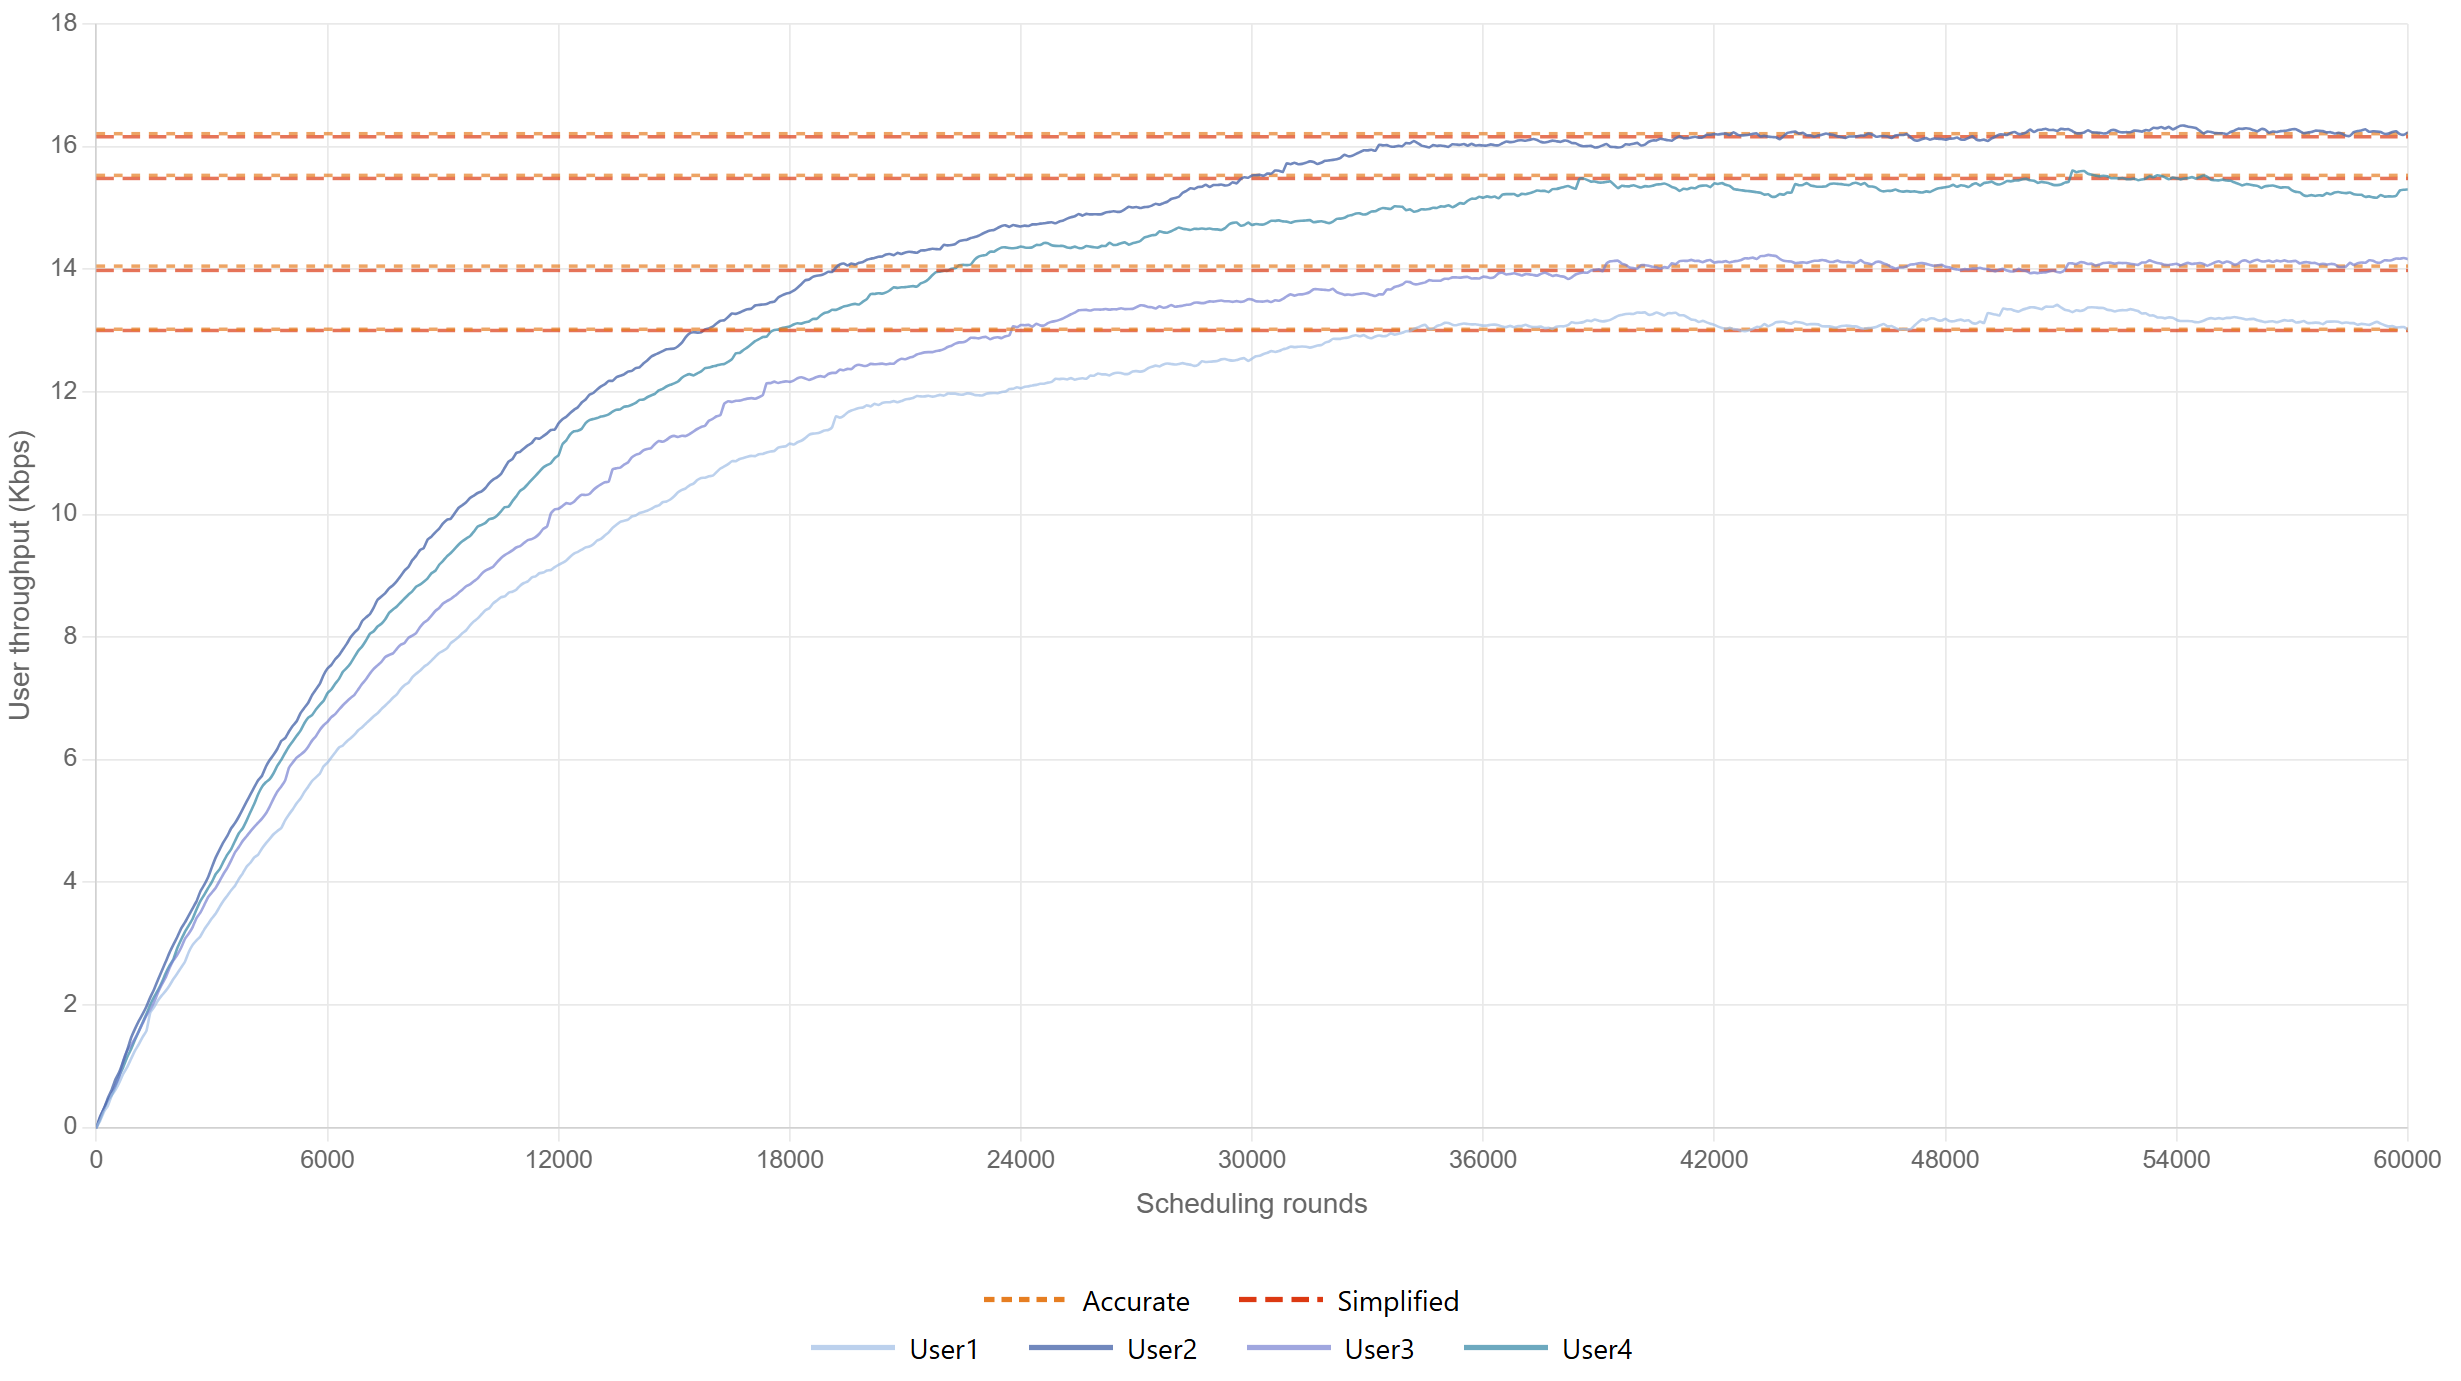
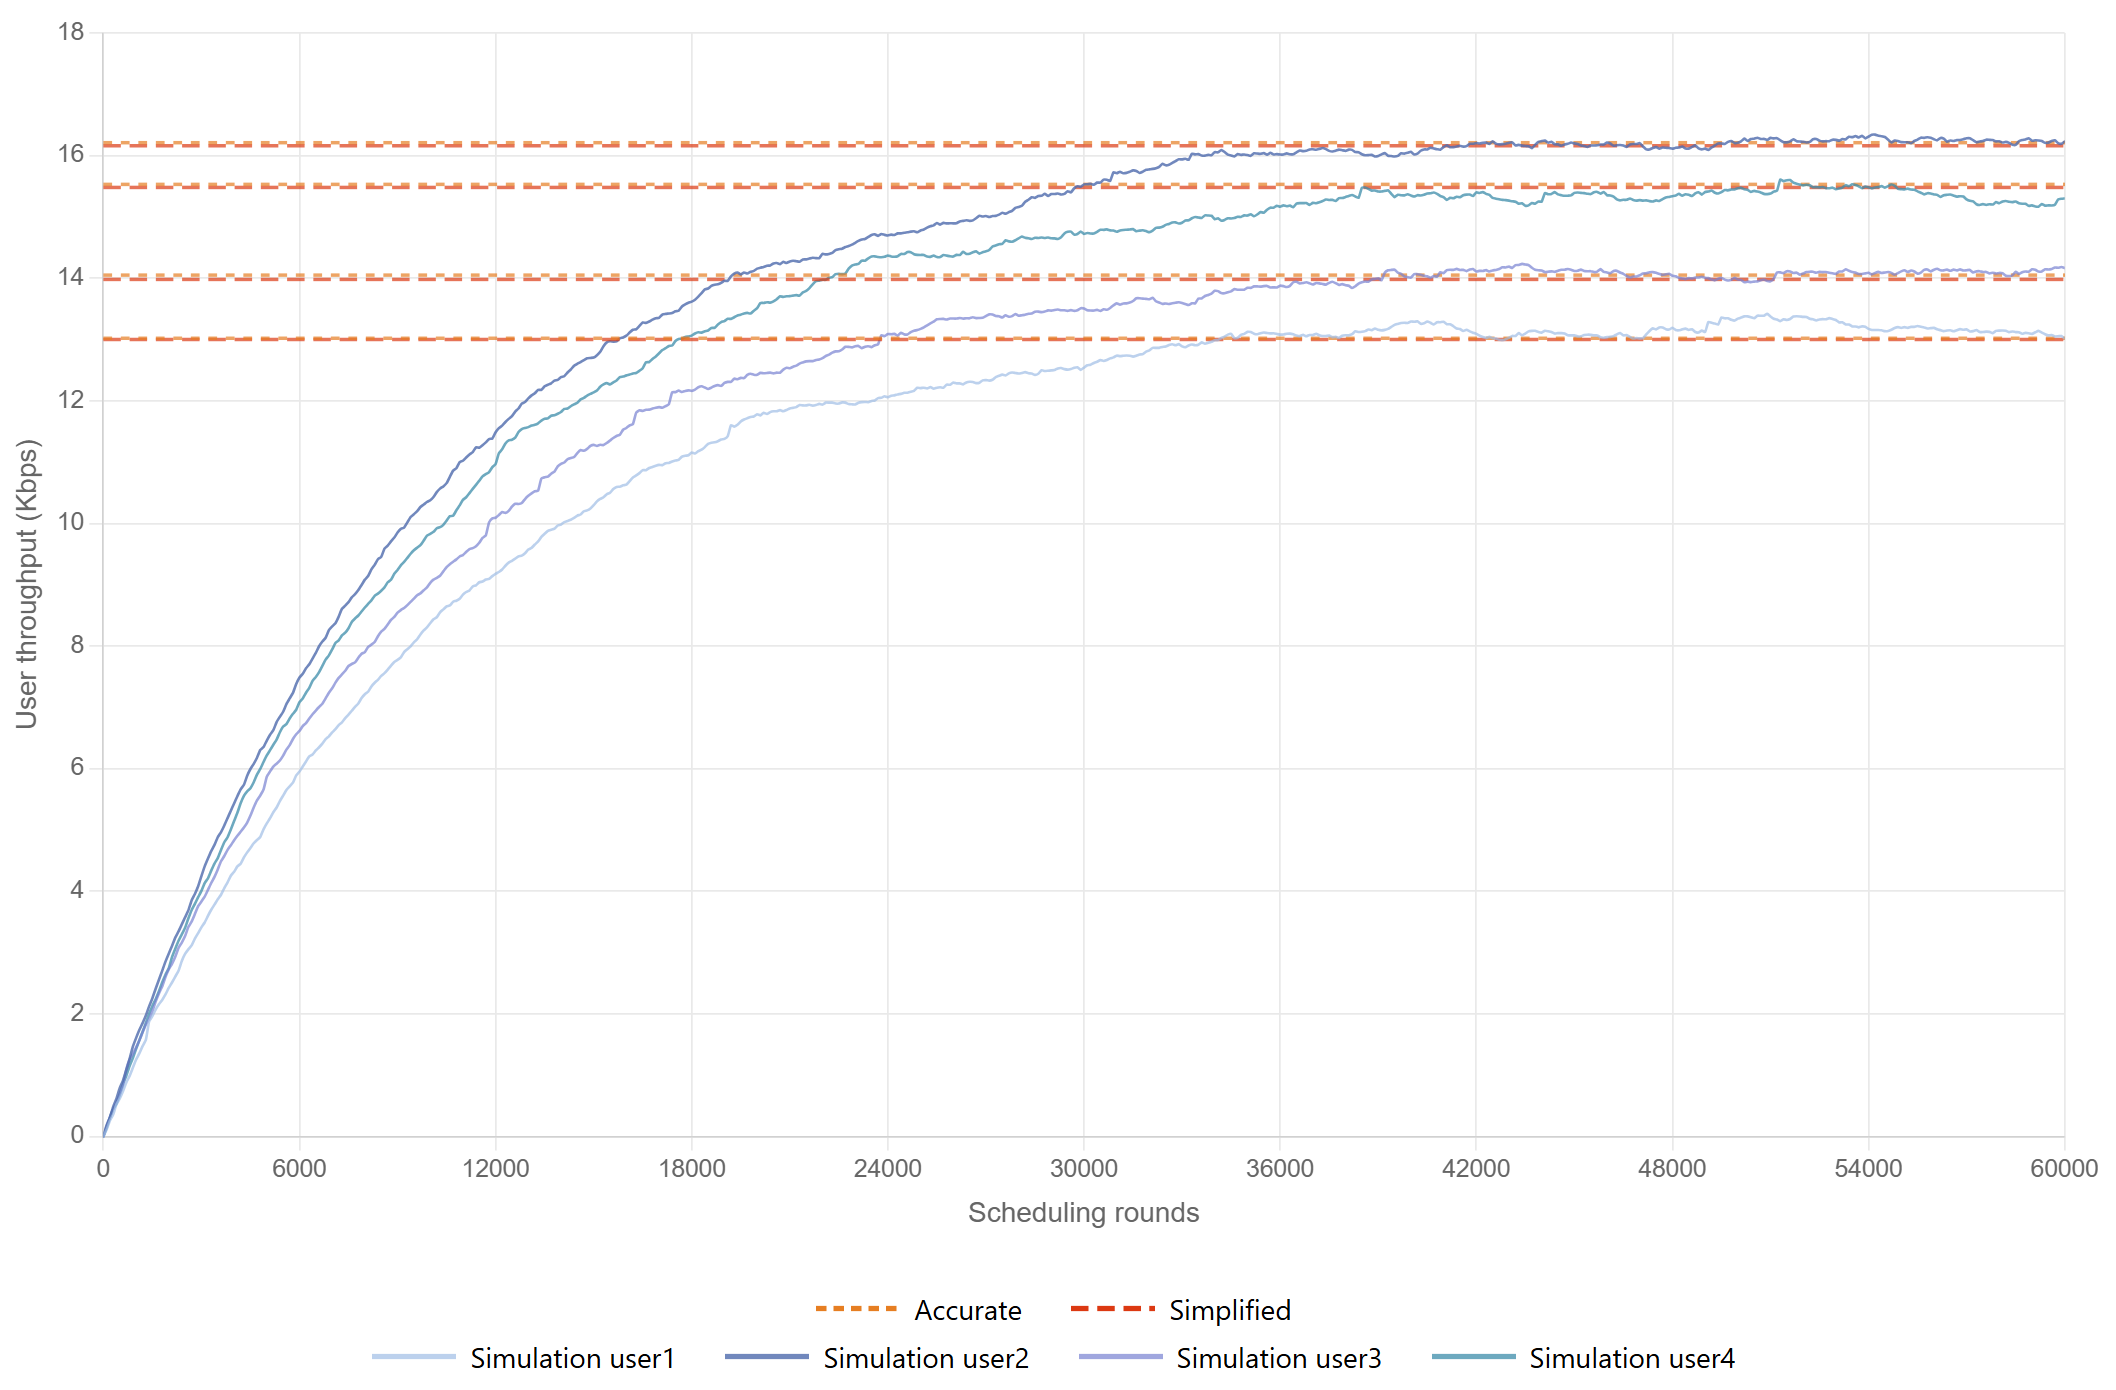
initial commit

diff --git a/reports/throughput_viewer.html b/reports/throughput_viewer.html
@@ -12,7 +12,7 @@
       background: #f5f5f5;
     }
     h2 { margin: 0 0 10px; font-size: 22px; }
-    .wrap { max-width: 1400px; margin: 0 auto; background: white; padding: 30px; border-radius: 8px; box-shadow: 0 2px 8px rgba(0,0,0,0.1); }
+    .wrap { max-width: 1200px; margin: 0 auto; background: white; padding: 30px; border-radius: 8px; box-shadow: 0 2px 8px rgba(0,0,0,0.1); }
     .tip { color: #666; margin: 0 0 12px; font-size: 14px; line-height: 1.8; }
     .chartbox { position: relative; width: 100%; height: 700px; margin-bottom: 30px; }
     canvas { position: absolute; left: 0; top: 0; width: 100% !important; height: 100% !important; }
@@ -109,19 +109,19 @@
       <div id="manualLegendSim" class="manual-legend" style="display:none; margin-top:6px;">
         <div class="legend-item">
           <svg width="48" height="4" aria-hidden="true"><line x1="0" y1="2" x2="48" y2="2" stroke="rgba(160, 190, 230, 0.70)" stroke-width="3" /></svg>
-          <span>User1</span>
+          <span>Simulation user1</span>
         </div>
         <div class="legend-item">
           <svg width="48" height="4" aria-hidden="true"><line x1="0" y1="2" x2="48" y2="2" stroke="rgba(82, 110, 175, 0.82)" stroke-width="3" /></svg>
-          <span>User2</span>
+          <span>Simulation user2</span>
         </div>
         <div class="legend-item">
           <svg width="48" height="4" aria-hidden="true"><line x1="0" y1="2" x2="48" y2="2" stroke="rgba(120, 130, 210, 0.70)" stroke-width="3" /></svg>
-          <span>User3</span>
+          <span>Simulation user3</span>
         </div>
         <div class="legend-item">
           <svg width="48" height="4" aria-hidden="true"><line x1="0" y1="2" x2="48" y2="2" stroke="rgba(60, 140, 170, 0.75)" stroke-width="3" /></svg>
-          <span>User4</span>
+          <span>Simulation user4</span>
         </div>
       </div>
     </div>
